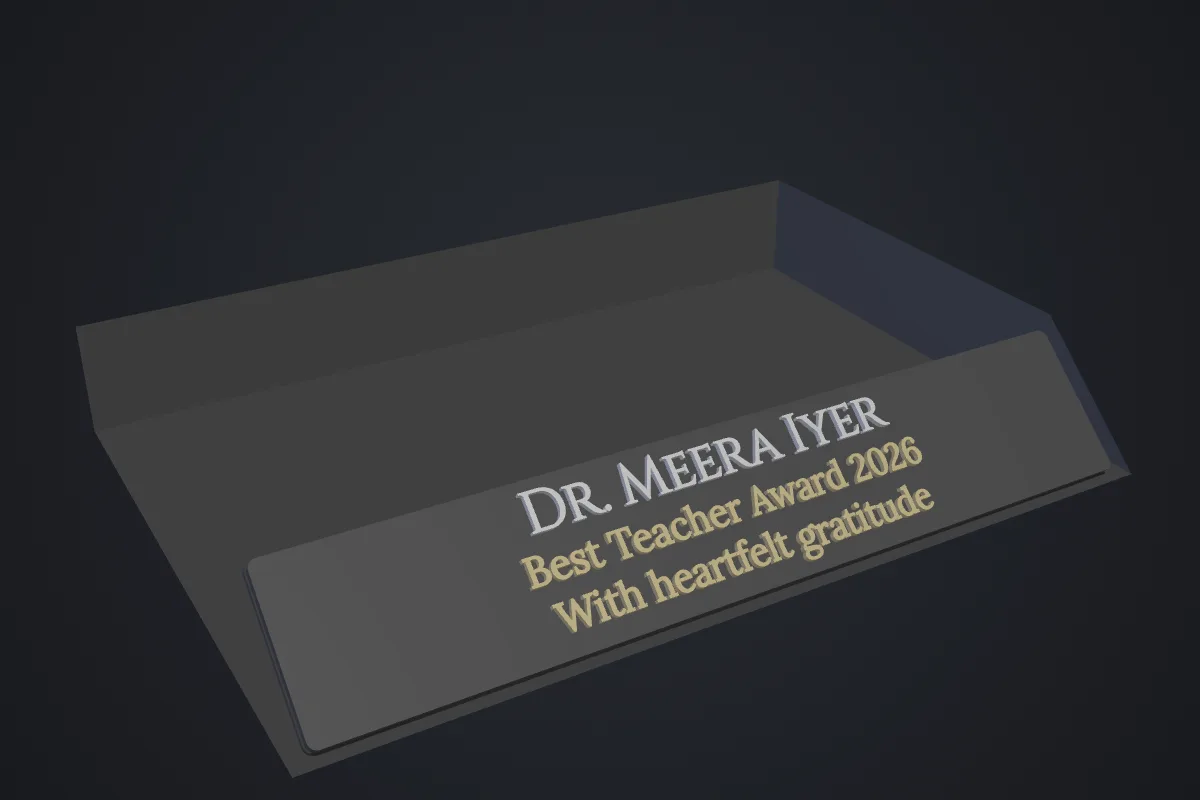
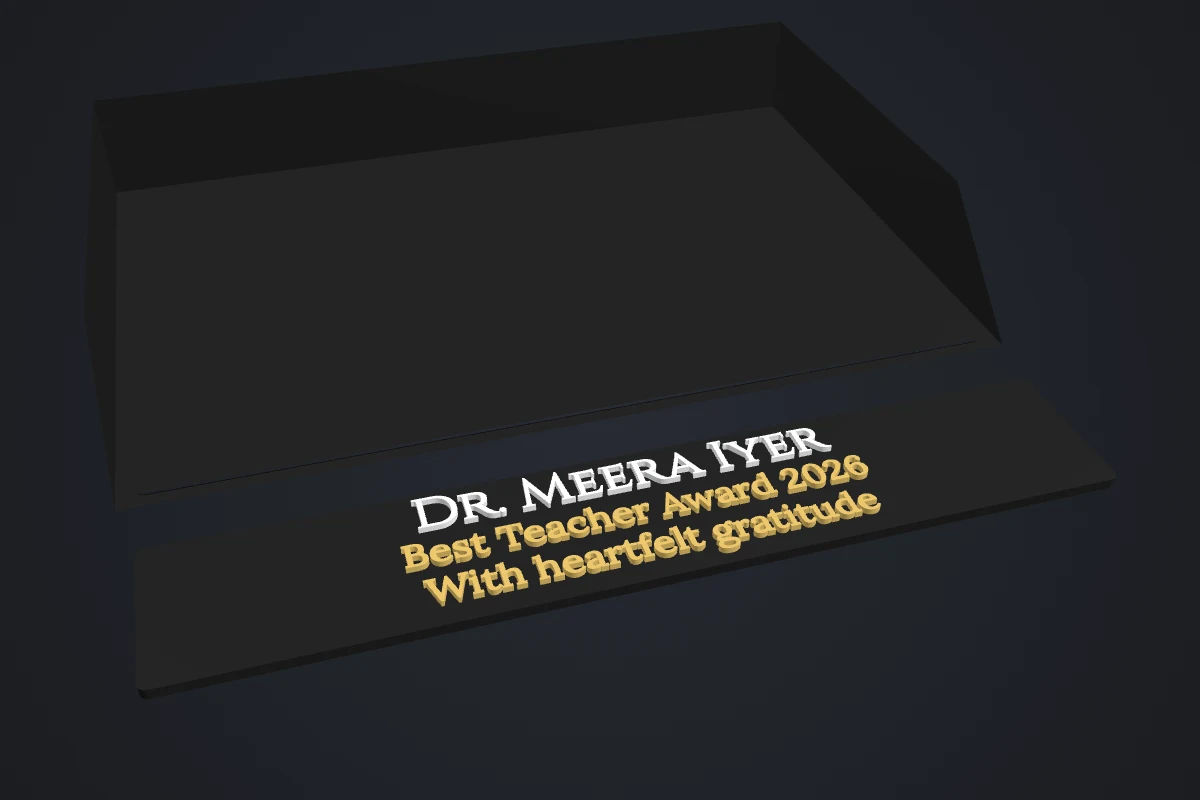
Fix washed-out colors in 3D renders (#20)
OpenSCAD face colors are sRGB, but three.js treats vertex colors as linear
and gamma-encodes them again on output, which pushed every model color
toward pastel. Convert them to linear, swap the blue-tinted fill for
neutral white lights, and share the scene setup in scene.ts.

Re-render the starter images on the homepage and canonicals page with the
same scene code so they match the studio.

diff --git a/src/components/studio/preview.tsx b/src/components/studio/preview.tsx
@@ -7,7 +7,7 @@ import { DownloadIcon } from 'lucide-react'
 import { Button } from '@/components/ui/button'
 import { cn } from '@/lib/utils'
 import type { RenderState } from '@/lib/openscad/useRenderer'
-import { DEFAULT_FACE_COLOR, type ParsedMesh } from '@/lib/openscad/off'
+import { addLights, createModelMesh, PREVIEW_BACKGROUND } from './scene'
 
 interface Props {
   render: RenderState
@@ -15,38 +15,6 @@ interface Props {
   /** Opens the order dialog; omitted where ordering does not apply. */
   onOrder?: () => void
   onThumbnailReady?: (thumbnail: string | null) => void
-}
-
-/**
- * Expand the indexed mesh into non-indexed position + color attributes so
- * each face can carry its own flat `color()` value.
- */
-function meshToGeometry(mesh: ParsedMesh): THREE.BufferGeometry {
-  const triCount = mesh.triangles.length / 3
-  const positions = new Float32Array(triCount * 9)
-  const colors = new Float32Array(triCount * 9)
-
-  for (let t = 0; t < triCount; t++) {
-    const [dr, dg, db] = DEFAULT_FACE_COLOR
-    const r = (mesh.faceColors ? mesh.faceColors[t * 3] : dr) / 255
-    const g = (mesh.faceColors ? mesh.faceColors[t * 3 + 1] : dg) / 255
-    const b = (mesh.faceColors ? mesh.faceColors[t * 3 + 2] : db) / 255
-    for (let k = 0; k < 3; k++) {
-      const vi = mesh.triangles[t * 3 + k]
-      const o = t * 9 + k * 3
-      positions[o] = mesh.vertices[vi * 3]
-      positions[o + 1] = mesh.vertices[vi * 3 + 1]
-      positions[o + 2] = mesh.vertices[vi * 3 + 2]
-      colors[o] = r
-      colors[o + 1] = g
-      colors[o + 2] = b
-    }
-  }
-
-  const geometry = new THREE.BufferGeometry()
-  geometry.setAttribute('position', new THREE.BufferAttribute(positions, 3))
-  geometry.setAttribute('color', new THREE.BufferAttribute(colors, 3))
-  return geometry
 }
 
 const badgeStyles: Record<RenderState['status'], string> = {
@@ -89,7 +57,7 @@ export function Preview({ render, onExport, onThumbnailReady, onOrder }: Props) 
     }
 
     const scene = new THREE.Scene()
-    scene.background = new THREE.Color('#0f1115')
+    scene.background = new THREE.Color(PREVIEW_BACKGROUND)
     sceneRef.current = scene
     rendererRef.current = renderer
 
@@ -104,13 +72,7 @@ export function Preview({ render, onExport, onThumbnailReady, onOrder }: Props) 
     controls.enableDamping = true
     controlsRef.current = controls
 
-    scene.add(new THREE.AmbientLight(0xffffff, 0.55))
-    const key = new THREE.DirectionalLight(0xffffff, 1.1)
-    key.position.set(1, 1.4, 0.8)
-    scene.add(key)
-    const fill = new THREE.DirectionalLight(0x88aaff, 0.4)
-    fill.position.set(-1, -0.3, -0.6)
-    scene.add(fill)
+    addLights(scene)
 
     const grid = new THREE.GridHelper(200, 20, 0x334155, 0x1e2633)
     ;(grid.material as THREE.Material).transparent = true
@@ -155,25 +117,14 @@ export function Preview({ render, onExport, onThumbnailReady, onOrder }: Props) 
     const controls = controlsRef.current
     if (!scene || !camera || !controls || !render.mesh) return
 
-    const geometry = meshToGeometry(render.mesh)
-    geometry.computeVertexNormals()
-    geometry.center()
-
     if (meshRef.current) {
       scene.remove(meshRef.current)
       meshRef.current.geometry.dispose()
       ;(meshRef.current.material as THREE.Material).dispose()
     }
 
-    const material = new THREE.MeshStandardMaterial({
-      vertexColors: true,
-      metalness: 0.1,
-      roughness: 0.55,
-      flatShading: false,
-    })
-    const mesh = new THREE.Mesh(geometry, material)
-    // OpenSCAD is Z-up; three is Y-up. Rotate so models stand correctly.
-    mesh.rotation.x = -Math.PI / 2
+    const mesh = createModelMesh(render.mesh)
+    const geometry = mesh.geometry
     scene.add(mesh)
     meshRef.current = mesh
 
@@ -202,7 +153,7 @@ export function Preview({ render, onExport, onThumbnailReady, onOrder }: Props) 
       canvas.height = 400
       const context = canvas.getContext('2d')
       if (context) {
-        context.fillStyle = '#0f1115'
+        context.fillStyle = PREVIEW_BACKGROUND
         context.fillRect(0, 0, canvas.width, canvas.height)
         const scale = Math.min(canvas.width / source.width, canvas.height / source.height)
         const width = source.width * scale

diff --git a/src/components/studio/scene.ts b/src/components/studio/scene.ts
@@ -1,0 +1,76 @@
+import * as THREE from 'three'
+import { DEFAULT_FACE_COLOR, type ParsedMesh } from '@/lib/openscad/off'
+
+/**
+ * Scene pieces shared by the studio preview and the script that renders the
+ * starter images, so the static renders match what people see in the studio.
+ */
+
+export const PREVIEW_BACKGROUND = '#0f1115'
+
+/**
+ * Expand the indexed mesh into non-indexed position + color attributes so
+ * each face can carry its own flat `color()` value.
+ *
+ * OpenSCAD colors are sRGB, but three.js treats vertex colors as linear and
+ * gamma-encodes them on output. Passing the raw values through washes every
+ * color out toward pastel, so they are converted to linear here.
+ */
+export function meshToGeometry(mesh: ParsedMesh): THREE.BufferGeometry {
+  const triCount = mesh.triangles.length / 3
+  const positions = new Float32Array(triCount * 9)
+  const colors = new Float32Array(triCount * 9)
+  const color = new THREE.Color()
+
+  for (let t = 0; t < triCount; t++) {
+    const [dr, dg, db] = DEFAULT_FACE_COLOR
+    const r = (mesh.faceColors ? mesh.faceColors[t * 3] : dr) / 255
+    const g = (mesh.faceColors ? mesh.faceColors[t * 3 + 1] : dg) / 255
+    const b = (mesh.faceColors ? mesh.faceColors[t * 3 + 2] : db) / 255
+    color.setRGB(r, g, b, THREE.SRGBColorSpace)
+    for (let k = 0; k < 3; k++) {
+      const vi = mesh.triangles[t * 3 + k]
+      const o = t * 9 + k * 3
+      positions[o] = mesh.vertices[vi * 3]
+      positions[o + 1] = mesh.vertices[vi * 3 + 1]
+      positions[o + 2] = mesh.vertices[vi * 3 + 2]
+      colors[o] = color.r
+      colors[o + 1] = color.g
+      colors[o + 2] = color.b
+    }
+  }
+
+  const geometry = new THREE.BufferGeometry()
+  geometry.setAttribute('position', new THREE.BufferAttribute(positions, 3))
+  geometry.setAttribute('color', new THREE.BufferAttribute(colors, 3))
+  return geometry
+}
+
+/** Build the model mesh, centered and stood upright (OpenSCAD is Z-up). */
+export function createModelMesh(parsed: ParsedMesh): THREE.Mesh {
+  const geometry = meshToGeometry(parsed)
+  geometry.computeVertexNormals()
+  geometry.center()
+  const material = new THREE.MeshStandardMaterial({
+    vertexColors: true,
+    metalness: 0,
+    roughness: 0.5,
+  })
+  const mesh = new THREE.Mesh(geometry, material)
+  mesh.rotation.x = -Math.PI / 2
+  return mesh
+}
+
+/**
+ * Neutral white lights only: a tinted light shifts every model color. A soft
+ * sky/ground fill keeps shadowed sides readable without flattening the key.
+ */
+export function addLights(scene: THREE.Scene) {
+  scene.add(new THREE.HemisphereLight(0xffffff, 0x8a8f99, 1.4))
+  const key = new THREE.DirectionalLight(0xffffff, 2.2)
+  key.position.set(1, 1.4, 0.8)
+  scene.add(key)
+  const fill = new THREE.DirectionalLight(0xffffff, 0.6)
+  fill.position.set(-1, 0.4, -0.6)
+  scene.add(fill)
+}
